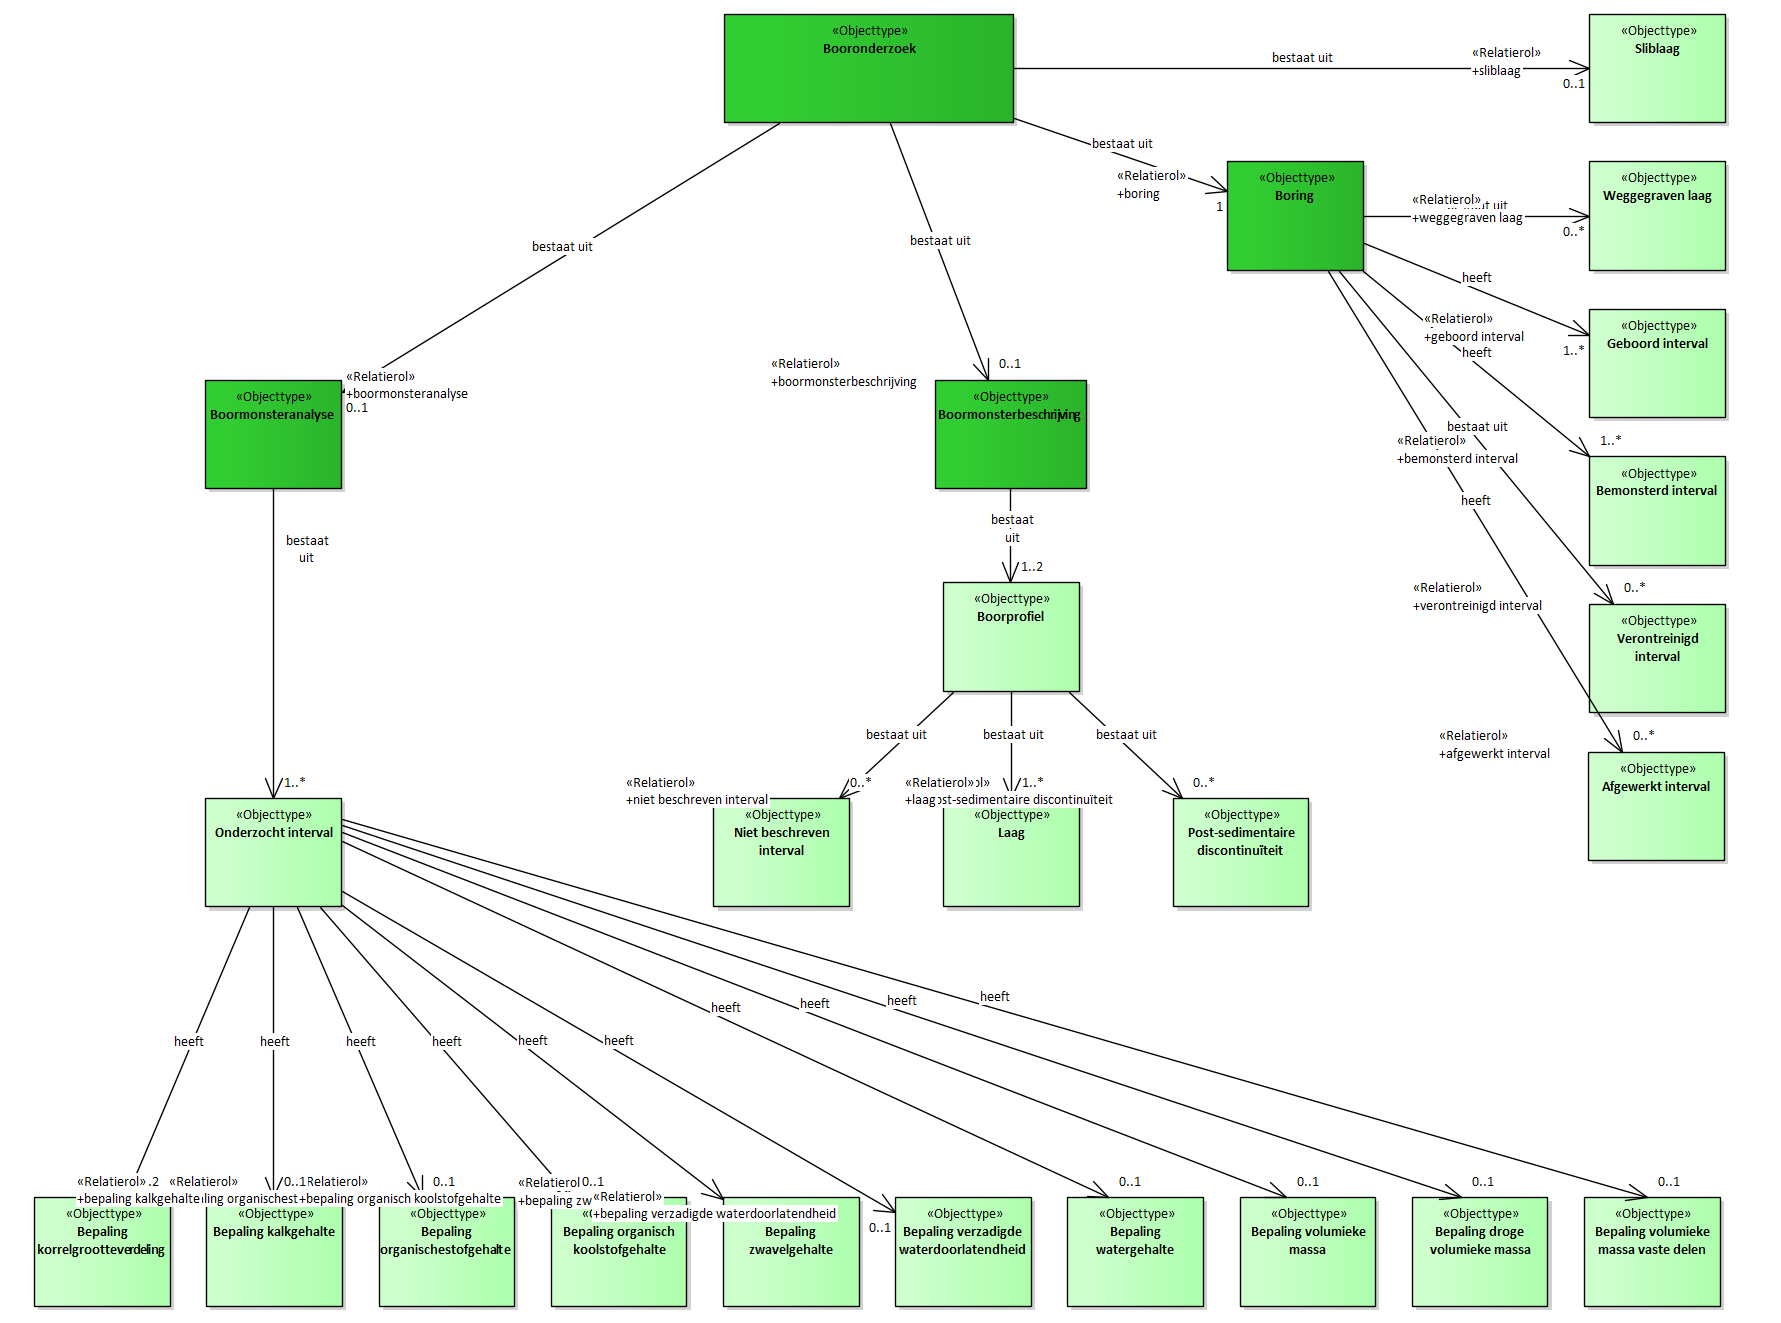
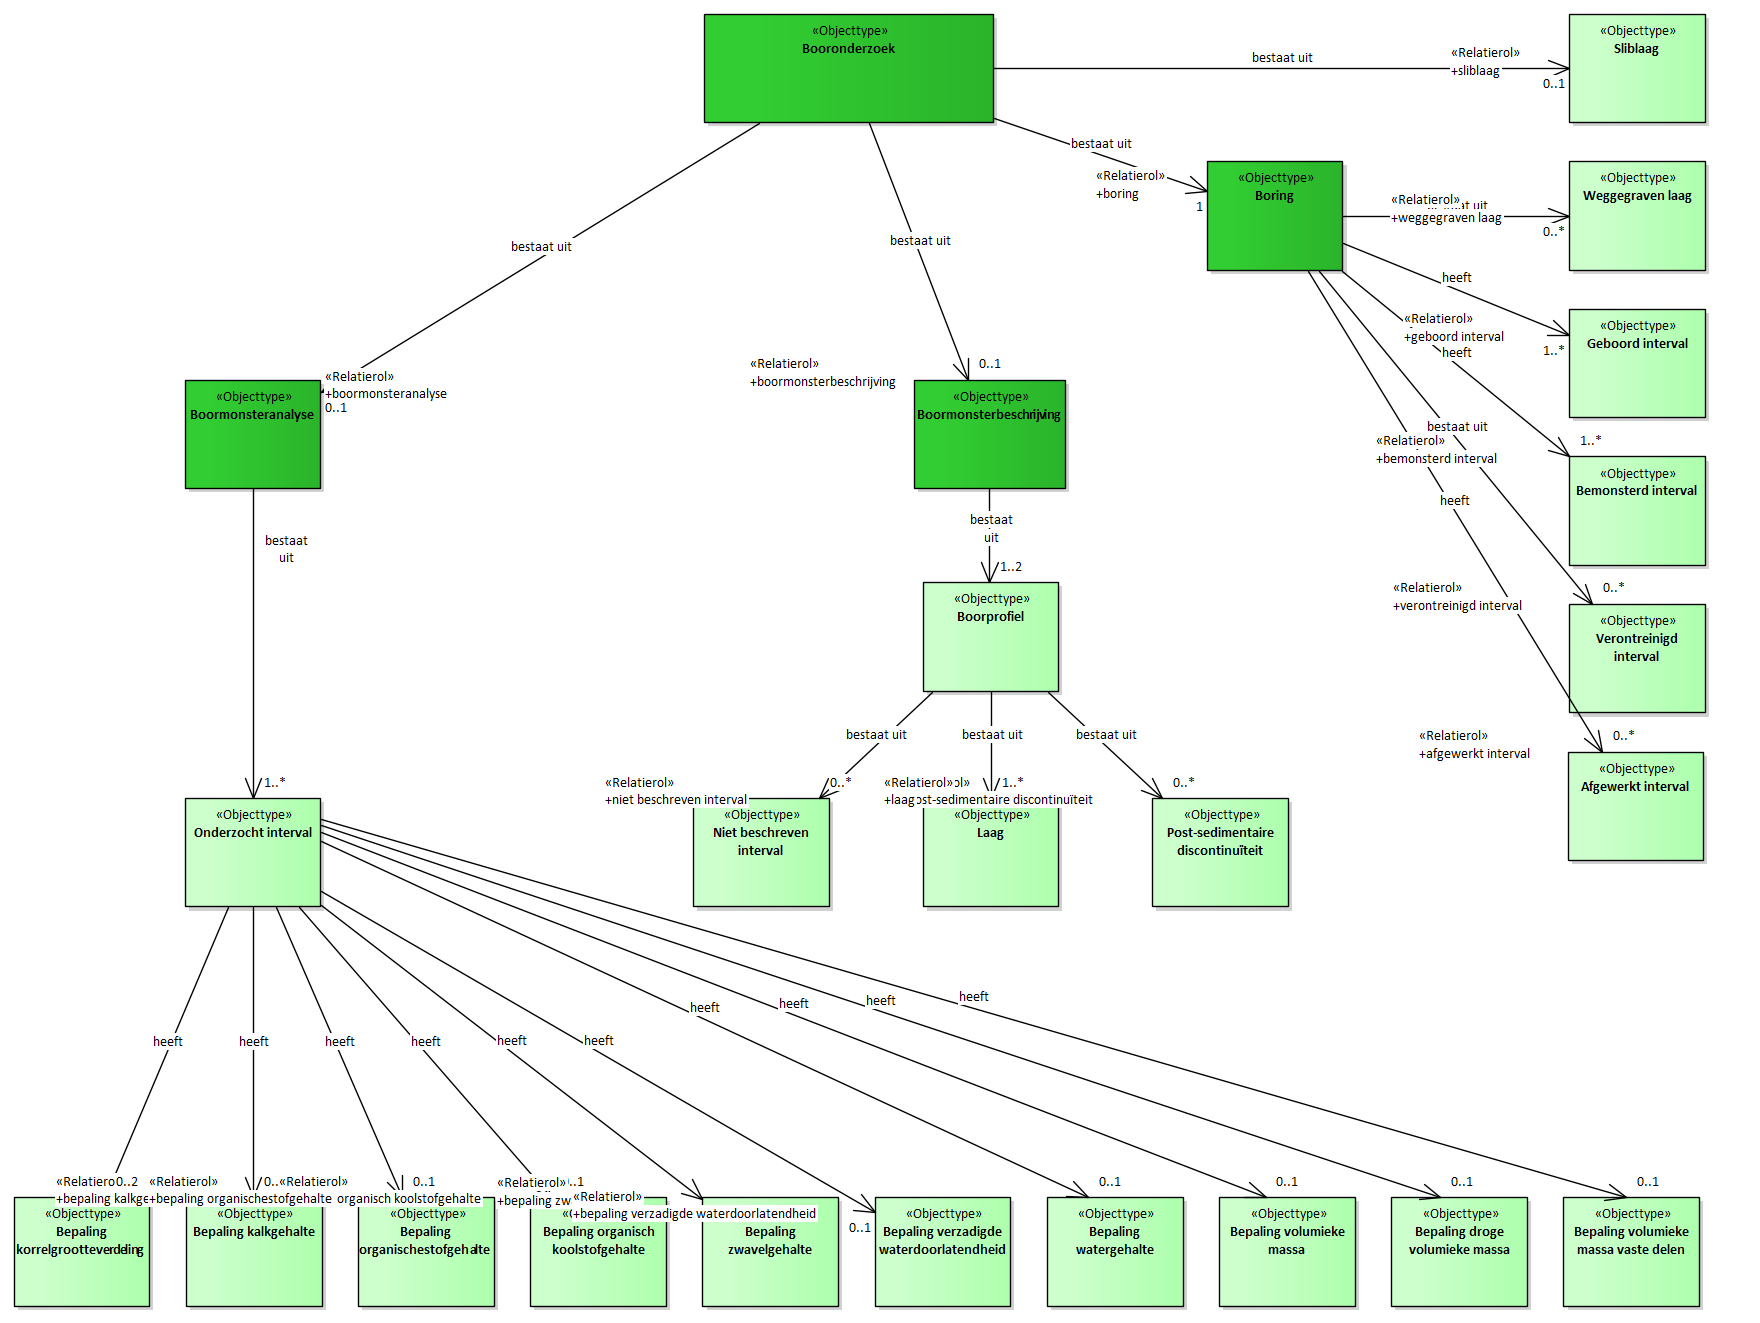
Conceptualmodel-GeologischbooronderzoekBHR-G-3.2-1-20241220-20260610-094939

diff --git a/data/BHR-G-cat.msword.html b/data/BHR-G-cat.msword.html
@@ -6,7 +6,7 @@
                     table.list tbody tr th {background-color: #d3d3d3;}
                     table.list tbody tr th,
                     table.list tbody tr td {border: 1px solid black;}
-                </style></head><body><p>Conceptual model/Geologisch booronderzoek (BHR-G)/20241220</p><p>Imvertor: Nightly-build.0</p><p>Model release: Conceptualmodel-GeologischbooronderzoekBHR-G-3.2-1-20241220-20260610-091507</p><hr><section><h1>Artikel 1 Definitie van registratieobject, entiteiten en attributen</h1><section><h2>Registratieobject</h2><section id="global_class_Model_Registratieobject">
+                </style></head><body><p>Conceptual model/Geologisch booronderzoek (BHR-G)/20241220</p><p>Imvertor: Nightly-build.0</p><p>Model release: Conceptualmodel-GeologischbooronderzoekBHR-G-3.2-1-20241220-20260610-094939</p><hr><section><h1>Artikel 1 Definitie van registratieobject, entiteiten en attributen</h1><section><h2>Registratieobject</h2><section id="global_class_Model_Registratieobject">
                <table style="width: 100%;"><colgroup style="width: 30%;"></colgroup><colgroup style="width: 70%;"></colgroup><tbody><tr><th scope="row">Naam</th><td>Booronderzoek</td></tr><tr><th scope="row">Code</th><td>BHR</td></tr><tr><th scope="row">Definitie</th><td>
                         <p>Het geheel van gegevens dat betrekking heeft op een booronderzoek dat vanuit een bepaalde opdracht is uitgevoerd door op een bepaald moment op een bepaalde locatie in Nederland of zijn Exclusieve Economische Zone een boring uit te voeren en de monsters die daarmee uit de ondergrond zijn verkregen te beschrijven en/of te onderzoeken en/of in het boorgat zelf metingen aan de ondergrond uit te voeren.</p>
                      </td></tr><tr><th scope="row">Populatie</th><td>
